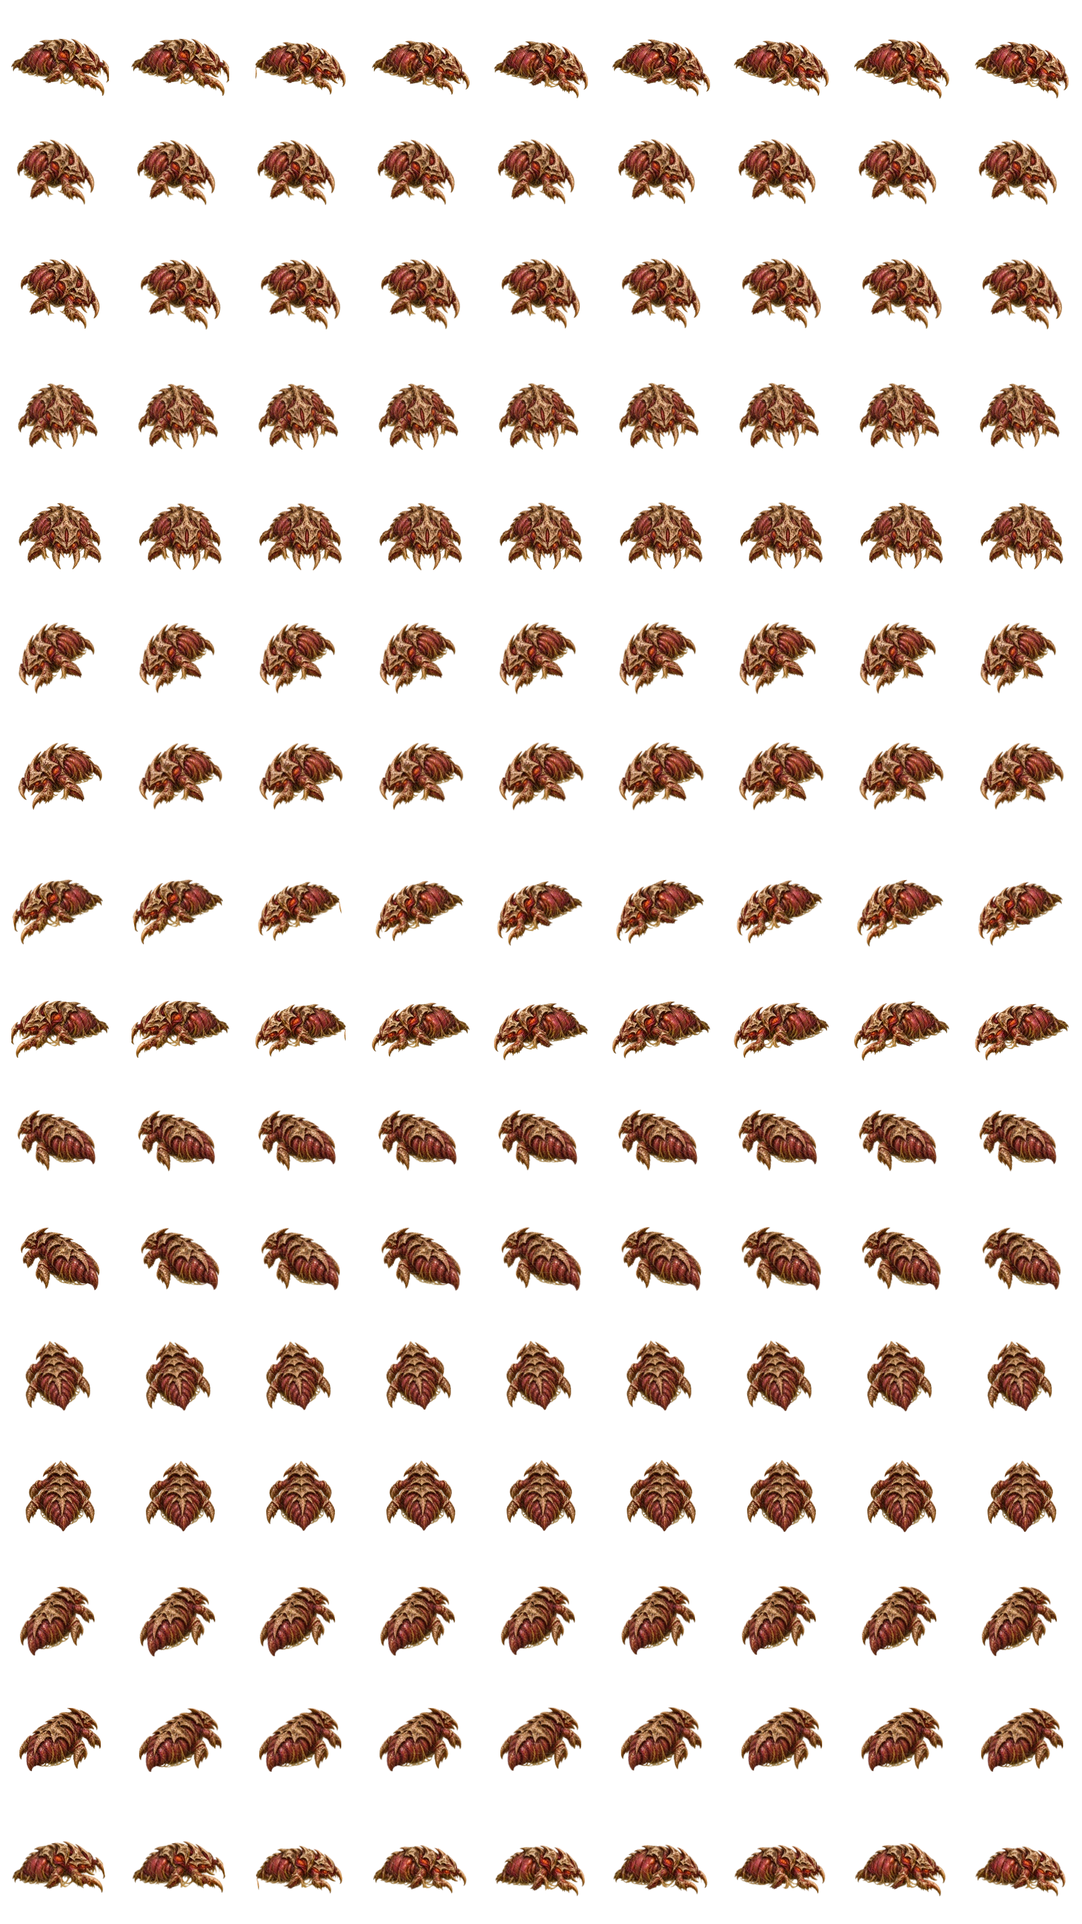
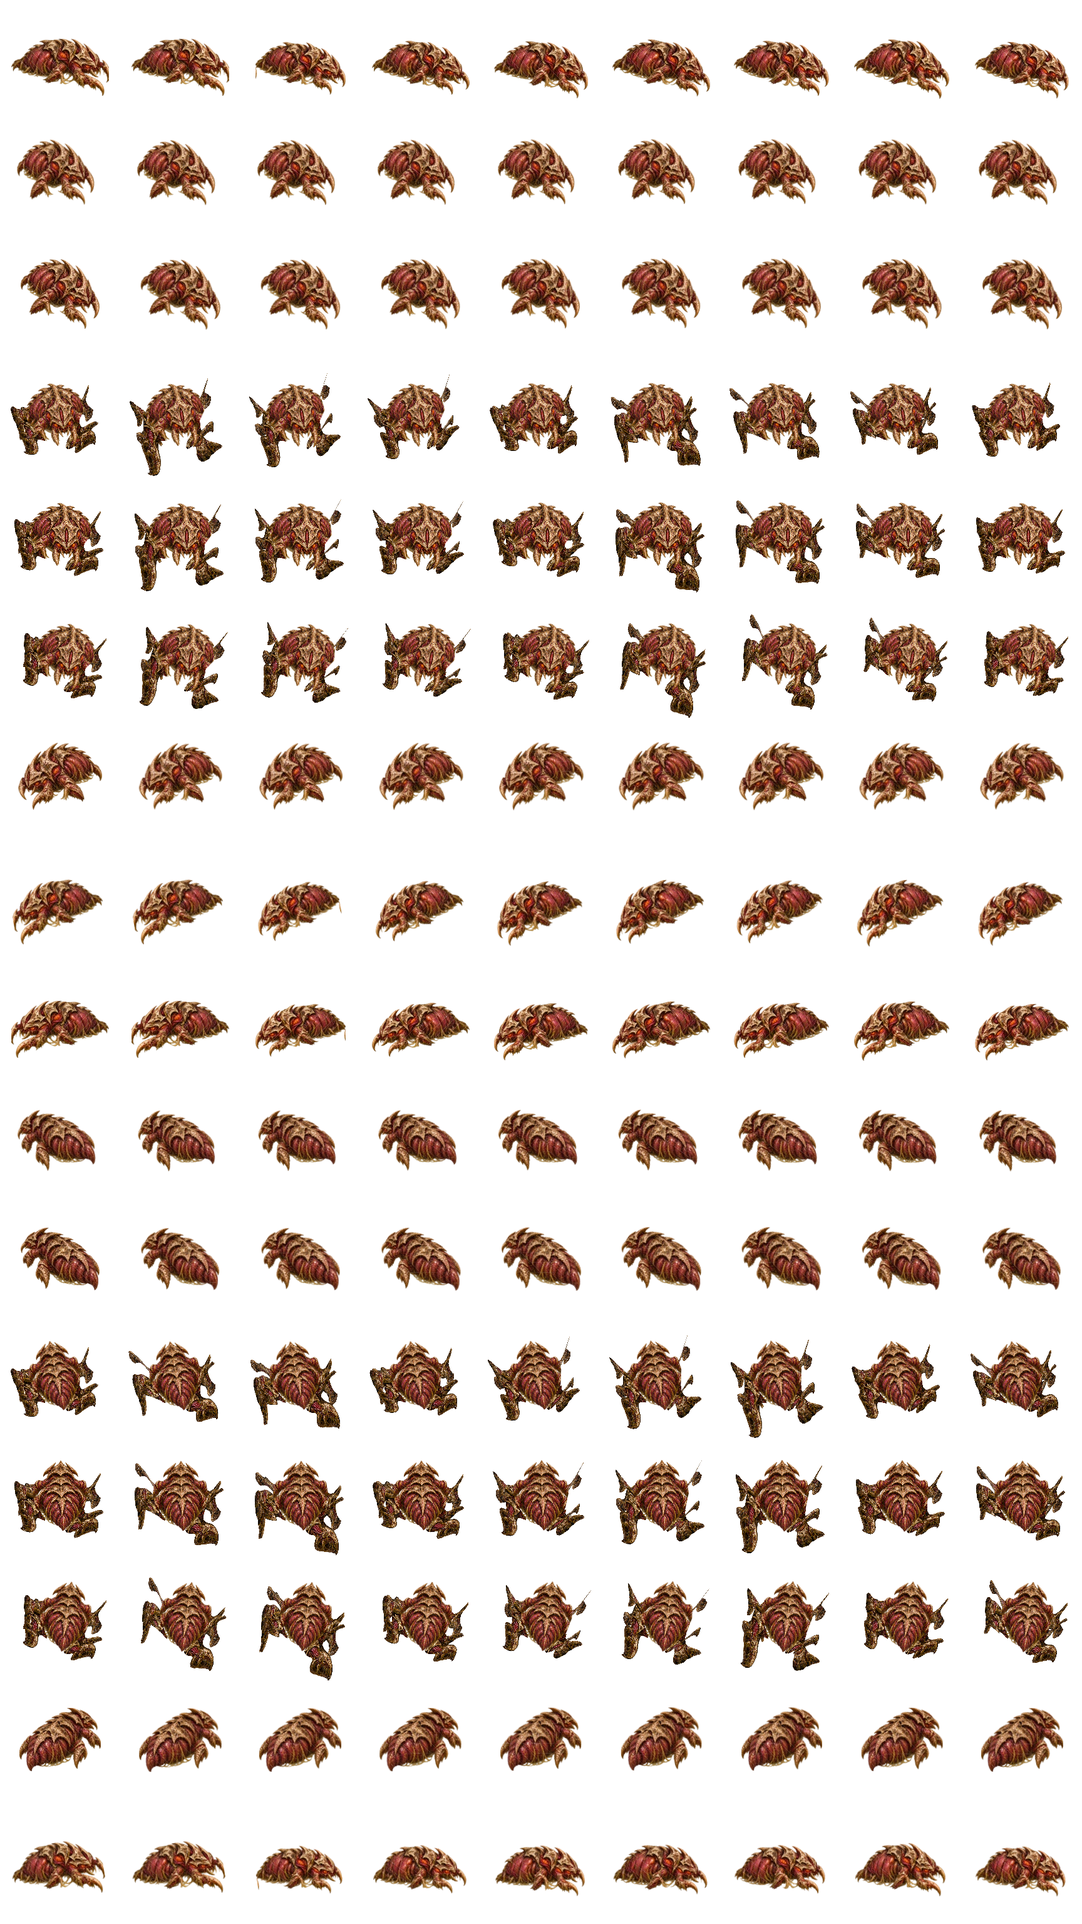
Checkpoint articulated tripod legs in six near-vertical Forager rows

diff --git a/prototype/index.html b/prototype/index.html
@@ -1547,7 +1547,7 @@ function drawLivingSurface(){
   }
   g.globalAlpha=1;
 }
-const FORAGER_MIRE_CONTACTS=[[[[76.164,132.386],[125.082,137.159],[162.964,152.669]],[[76.164,132.386],[125.082,137.159],[162.964,152.669]],[[76.463,132.386],[123.889,141.335],[142.681,150.581]],[[78.998,133.579],[125.231,141.335],[144.918,150.88]],[[82.727,136.562],[127.17,140.141],[153.12,155.95]],[[73.48,133.878],[127.468,143.423],[152.822,153.266]],[[81.683,133.878],[127.319,139.247],[153.866,152.669]],[[82.13,134.474],[127.17,141.633],[156.103,157.143]],[[82.876,133.579],[127.021,143.124],[151.182,156.249]]],[[[76.783,123.018],[116.443,127.211],[134.221,134.358]],[[76.042,123.063],[117.548,127.927],[135.935,135.261]],[[77.004,123.421],[118.005,128.089],[135.674,135.145]],[[77.836,123.542],[117.547,127.737],[134.563,134.567]],[[78.052,123.356],[116.442,127.077],[133.251,133.867]],[[77.524,122.972],[115.337,126.495],[132.508,133.455]],[[76.562,122.615],[114.88,126.333],[132.768,133.572]],[[75.73,122.494],[115.338,126.686],[133.88,134.15]],[[75.515,122.679],[116.444,127.346],[135.191,134.849]]],[[[77.095,119.833],[117.986,130.756],[135.35,140.839]],[[76.308,119.751],[119.016,131.65],[136.984,142.022]],[[77.253,120.267],[119.466,131.888],[136.732,141.862]],[[78.105,120.529],[119.049,131.463],[135.67,141.103]],[[78.365,120.384],[118.01,130.624],[134.421,140.189]],[[77.882,119.915],[116.956,129.862],[133.716,139.656]],[[76.937,119.399],[116.506,129.624],[133.968,139.816]],[[76.085,119.137],[116.923,130.049],[135.03,140.575]],[[75.825,119.282],[117.962,130.888],[136.279,141.489]]],[[[92.907,136.711],[98.029,140.086],[152.49,120.656]],[[92.92,136.786],[98.074,140.347],[152.717,121.95]],[[93.08,137.704],[98.234,141.26],[152.585,121.195]],[[93.139,138.041],[98.273,141.485],[152.397,120.124]],[[93.062,137.598],[98.169,140.89],[152.265,119.364]],[[92.894,136.635],[97.983,139.825],[152.264,119.361]],[[92.733,135.717],[97.824,138.912],[152.396,120.116]],[[92.674,135.381],[97.784,138.687],[152.583,121.188]],[[92.752,135.824],[97.888,139.282],[152.716,121.947]]],[[[91.519,136.078],[96.28,140.279],[157.056,130.476]],[[91.519,136.155],[96.28,140.544],[157.056,131.789]],[[91.519,137.086],[96.28,141.47],[157.056,131.023]],[[91.519,137.427],[96.28,141.698],[157.056,129.936]],[[91.519,136.978],[96.28,141.095],[157.056,129.166]],[[91.519,136.001],[96.28,140.014],[157.056,129.163]],[[91.519,135.07],[96.28,139.088],[157.056,129.929]],[[91.519,134.729],[96.28,138.86],[157.056,131.016]],[[91.519,135.178],[96.28,139.463],[157.056,131.786]]],[[[74.065,134.925],[104.198,124.279],[128.034,121.838]],[[75.029,134.424],[103.875,124.942],[126.986,123.127]],[[74.179,135.149],[103.218,125.494],[127.029,123.066]],[[73.261,135.742],[103.135,125.334],[127.661,122.285]],[[72.814,135.857],[103.675,124.557],[128.512,121.243]],[[73.1,135.426],[104.521,123.616],[129.083,120.55]],[[73.951,134.701],[105.178,123.064],[129.04,120.611]],[[74.869,134.108],[105.261,123.223],[128.408,121.391]],[[75.315,133.993],[104.722,124.001],[127.557,122.433]]],[[[72.054,131.092],[105.662,125.771],[131.149,127.451]],[[73.159,130.764],[105.201,126.368],[129.811,128.54]],[[72.132,131.332],[104.41,126.799],[129.867,128.487]],[[71.06,131.759],[104.352,126.628],[130.675,127.827]],[[70.569,131.795],[105.061,125.955],[131.76,126.947]],[[70.949,131.42],[106.123,125.174],[132.487,126.362]],[[71.976,130.852],[106.914,124.743],[132.431,126.415]],[[73.048,130.425],[106.972,124.914],[131.623,127.075]],[[73.539,130.389],[106.263,125.587],[130.538,127.955]]],[[[114.737,129.163],[70.365,141.73],[38.037,163.106]],[[114.737,129.163],[70.365,141.73],[38.037,163.106]],[[114.461,129.212],[72.186,145.654],[56.417,157.788]],[[112.324,130.795],[70.946,145.87],[54.401,158.442]],[[109.393,134.334],[68.949,145.005],[47.697,164.757]],[[117.474,130.203],[69.239,148.288],[47.51,162.064]],[[109.895,131.521],[68.657,144.148],[46.443,161.643]],[[109.585,132.18],[69.206,146.476],[45.146,166.413]],[[108.741,131.418],[69.6,147.921],[49.539,164.741]]],[[[115.836,132.386],[66.918,137.159],[29.036,152.669]],[[115.836,132.386],[66.918,137.159],[29.036,152.669]],[[115.537,132.386],[68.111,141.335],[49.319,150.581]],[[113.002,133.579],[66.769,141.335],[47.082,150.88]],[[109.273,136.562],[64.83,140.141],[38.88,155.95]],[[118.52,133.878],[64.532,143.423],[39.178,153.266]],[[110.317,133.878],[64.681,139.247],[38.134,152.669]],[[109.87,134.474],[64.83,141.633],[35.897,157.143]],[[109.124,133.579],[64.979,143.124],[40.818,156.249]]],[[[75.892,140.808],[116.28,127.808],[148.26,130.778]],[[77.121,141.539],[115.283,127.693],[146.722,130.406]],[[75.974,141.072],[114.806,127.488],[147.585,130.732]],[[74.779,140.45],[115.192,127.47],[148.843,131.084]],[[74.237,140.038],[116.216,127.651],[149.76,131.257]],[[74.664,140.077],[117.278,127.923],[149.798,131.149]],[[75.811,140.544],[117.755,128.129],[148.934,130.824]],[[77.006,141.166],[117.368,128.146],[147.676,130.472]],[[77.548,141.578],[116.344,127.966],[146.759,130.299]]],[[[72.894,137.198],[117.706,131.316],[150.754,139.718]],[[74.05,138.128],[116.679,131.032],[149.207,139.089]],[[72.931,137.472],[116.216,130.748],[150.054,139.557]],[[71.79,136.655],[116.625,130.797],[151.311,140.119]],[[71.296,136.156],[117.668,131.15],[152.242,140.447]],[[71.738,136.268],[118.733,131.6],[152.301,140.347]],[[72.857,136.924],[119.196,131.884],[151.454,139.879]],[[73.998,137.741],[118.787,131.835],[150.197,139.317]],[[74.492,138.24],[117.744,131.482],[149.266,138.989]]],[[[92.351,132.768],[101.916,140.206],[140.224,119.888]],[[92.434,133.244],[101.923,140.249],[140.084,119.082]],[[92.275,132.334],[101.768,139.363],[140.154,119.487]],[[92.161,131.679],[101.7,138.971],[140.266,120.128]],[[92.158,131.662],[101.758,139.303],[140.354,120.628]],[[92.268,132.293],[101.908,140.163],[140.365,120.695]],[[92.427,133.203],[102.063,141.049],[140.295,120.289]],[[92.542,133.858],[102.131,141.441],[140.183,119.649]],[[92.545,133.875],[102.074,141.11],[140.095,119.149]]],[[[91.659,132.101],[100.341,141.063],[144.312,127.619]],[[91.659,132.583],[100.341,141.106],[144.312,126.801]],[[91.659,131.66],[100.341,140.208],[144.312,127.212]],[[91.659,130.996],[100.341,139.81],[144.312,127.862]],[[91.659,130.978],[100.341,140.146],[144.312,128.369]],[[91.659,131.619],[100.341,141.02],[144.312,128.437]],[[91.659,132.542],[100.341,141.918],[144.312,128.026]],[[91.659,133.206],[100.341,142.316],[144.312,127.376]],[[91.659,133.224],[100.341,141.98],[144.312,126.869]]],[[[74.795,136.05],[121.949,131.259],[125.532,121.25]],[[73.936,137.141],[123.048,130.611],[126.641,120.653]],[[74.801,136.361],[123.274,130.393],[126.669,120.604]],[[75.662,135.399],[122.723,130.683],[126.031,120.934]],[[76.015,134.819],[121.719,131.31],[125.101,121.449]],[[75.653,134.96],[120.849,131.908],[124.423,121.847]],[[74.788,135.74],[120.624,132.125],[124.395,121.896]],[[73.927,136.702],[121.175,131.835],[125.032,121.566]],[[73.574,137.282],[122.179,131.208],[125.963,121.051]]],[[[72.614,132.325],[123.027,135.685],[128.628,126.443]],[[71.512,133.252],[124.301,135.235],[129.903,126.045]],[[72.564,132.632],[124.578,135.059],[129.941,126.002]],[[73.645,131.832],[123.946,135.25],[129.211,126.217]],[[74.122,131.321],[122.776,135.696],[128.139,126.565]],[[73.716,131.398],[121.753,136.135],[127.353,126.841]],[[72.664,132.018],[121.476,136.311],[127.315,126.884]],[[71.583,132.818],[122.108,136.12],[128.045,126.669]],[[71.106,133.329],[123.278,135.674],[129.117,126.321]]],[[[78.085,135.54],[124.101,132.382],[161.77,141.58]],[[78.085,135.54],[124.101,132.382],[161.77,141.58]],[[78.361,135.492],[123.718,136.689],[142.672,142.782]],[[80.909,136.26],[124.958,136.474],[144.79,142.717]],[[84.867,138.601],[126.544,134.985],[153.241,146.396]],[[75.862,137.442],[127.384,138.172],[152.503,143.798]],[[83.441,136.123],[126.527,134.08],[153.365,143.042]],[[83.956,136.639],[126.801,136.456],[156.202,147.092]],[[84.491,135.637],[126.92,137.949],[151.502,147.002]]]];
+const FORAGER_MIRE_CONTACTS=[[[[76.164,132.386],[125.082,137.159],[162.964,152.669]],[[76.164,132.386],[125.082,137.159],[162.964,152.669]],[[76.463,132.386],[123.889,141.335],[142.681,150.581]],[[78.998,133.579],[125.231,141.335],[144.918,150.88]],[[82.727,136.562],[127.17,140.141],[153.12,155.95]],[[73.48,133.878],[127.468,143.423],[152.822,153.266]],[[81.683,133.878],[127.319,139.247],[153.866,152.669]],[[82.13,134.474],[127.17,141.633],[156.103,157.143]],[[82.876,133.579],[127.021,143.124],[151.182,156.249]]],[[[76.783,123.018],[116.443,127.211],[134.221,134.358]],[[76.042,123.063],[117.548,127.927],[135.935,135.261]],[[77.004,123.421],[118.005,128.089],[135.674,135.145]],[[77.836,123.542],[117.547,127.737],[134.563,134.567]],[[78.052,123.356],[116.442,127.077],[133.251,133.867]],[[77.524,122.972],[115.337,126.495],[132.508,133.455]],[[76.562,122.615],[114.88,126.333],[132.768,133.572]],[[75.73,122.494],[115.338,126.686],[133.88,134.15]],[[75.515,122.679],[116.444,127.346],[135.191,134.849]]],[[[77.095,119.833],[117.986,130.756],[135.35,140.839]],[[76.308,119.751],[119.016,131.65],[136.984,142.022]],[[77.253,120.267],[119.466,131.888],[136.732,141.862]],[[78.105,120.529],[119.049,131.463],[135.67,141.103]],[[78.365,120.384],[118.01,130.624],[134.421,140.189]],[[77.882,119.915],[116.956,129.862],[133.716,139.656]],[[76.937,119.399],[116.506,129.624],[133.968,139.816]],[[76.085,119.137],[116.923,130.049],[135.03,140.575]],[[75.825,119.282],[117.962,130.888],[136.279,141.489]]],[[[32.99,96.277],[31.924,122.867],[43.793,147.207],[143.856,76.989],[153.876,101.651],[150.963,128.563]],[[39.092,131.201],[28.22,101.667],[49.719,181.127],[140.285,56.552],[160.296,138.396],[147.461,108.524]],[[36.638,117.155],[25.758,87.573],[47.271,167.113],[137.779,42.21],[157.653,123.264],[144.881,93.756]],[[34.203,103.22],[26.533,92.011],[44.937,153.759],[138.519,46.448],[155.018,108.185],[145.552,97.595]],[[31.72,89.005],[32.498,126.154],[42.594,140.345],[144.313,79.605],[152.46,93.543],[151.32,130.609]],[[29.185,74.499],[38.273,159.201],[40.158,126.406],[149.835,111.214],[149.989,79.4],[156.868,162.361]],[[26.668,60.092],[35.81,145.108],[37.643,112.012],[147.468,97.663],[147.575,65.584],[154.57,149.207]],[[27.584,65.336],[33.262,130.525],[38.461,116.693],[145.122,84.239],[148.525,71.025],[152.298,136.203]],[[33.608,99.811],[30.715,115.946],[44.337,150.321],[142.736,70.581],[154.674,106.217],[149.943,122.728]]],[[[36,86],[30,112],[38,138],[156,86],[162,112],[154,138]],[[36,121.434],[30,90.491],[38,172.415],[156,65.264],[162,149.281],[154,117.668]],[[36,107.183],[30,76.191],[38,158.196],[156,50.713],[162,133.929],[154,102.685]],[[36,93.045],[30,80.694],[38,144.648],[156,55.013],[162,118.63],[154,106.58]],[[36,78.622],[30,115.335],[38,131.038],[156,88.654],[162,103.773],[154,140.076]],[[36,63.904],[30,148.864],[38,116.895],[156,120.724],[162,89.425],[154,172.291]],[[36,49.287],[30,134.566],[38,102.292],[156,106.975],[162,75.407],[154,158.946]],[[36,54.608],[30,119.77],[38,107.04],[156,93.355],[162,80.927],[154,145.752]],[[36,89.586],[30,104.978],[38,141.16],[156,79.498],[162,116.633],[154,132.08]]],[[[48.144,76.989],[38.124,101.651],[41.037,128.563],[159.01,96.277],[160.076,122.867],[148.207,147.207]],[[42.042,111.914],[41.828,80.451],[35.111,162.483],[162.581,75.839],[153.656,159.612],[151.709,127.168]],[[44.496,97.868],[44.29,66.357],[37.559,148.468],[165.087,61.497],[156.3,144.48],[154.289,112.4]],[[46.931,83.933],[43.515,70.795],[39.893,135.115],[164.346,65.735],[158.934,129.401],[153.618,116.24]],[[49.415,69.718],[37.549,104.938],[42.236,121.701],[158.553,98.893],[161.492,114.759],[147.85,149.253]],[[51.949,55.212],[31.775,137.985],[44.672,107.762],[153.03,130.501],[163.963,100.616],[142.302,181.005]],[[54.467,40.805],[34.238,123.892],[47.187,93.368],[155.398,116.95],[166.377,86.8],[144.6,167.851]],[[53.55,46.049],[36.786,109.309],[46.369,98.048],[157.743,103.526],[165.427,92.241],[146.872,154.848]],[[47.527,80.524],[39.333,94.73],[40.493,131.677],[160.13,89.869],[159.278,127.433],[149.227,141.372]]],[[[72.054,131.092],[105.662,125.771],[131.149,127.451]],[[73.159,130.764],[105.201,126.368],[129.811,128.54]],[[72.132,131.332],[104.41,126.799],[129.867,128.487]],[[71.06,131.759],[104.352,126.628],[130.675,127.827]],[[70.569,131.795],[105.061,125.955],[131.76,126.947]],[[70.949,131.42],[106.123,125.174],[132.487,126.362]],[[71.976,130.852],[106.914,124.743],[132.431,126.415]],[[73.048,130.425],[106.972,124.914],[131.623,127.075]],[[73.539,130.389],[106.263,125.587],[130.538,127.955]]],[[[114.737,129.163],[70.365,141.73],[38.037,163.106]],[[114.737,129.163],[70.365,141.73],[38.037,163.106]],[[114.461,129.212],[72.186,145.654],[56.417,157.788]],[[112.324,130.795],[70.946,145.87],[54.401,158.442]],[[109.393,134.334],[68.949,145.005],[47.697,164.757]],[[117.474,130.203],[69.239,148.288],[47.51,162.064]],[[109.895,131.521],[68.657,144.148],[46.443,161.643]],[[109.585,132.18],[69.206,146.476],[45.146,166.413]],[[108.741,131.418],[69.6,147.921],[49.539,164.741]]],[[[115.836,132.386],[66.918,137.159],[29.036,152.669]],[[115.836,132.386],[66.918,137.159],[29.036,152.669]],[[115.537,132.386],[68.111,141.335],[49.319,150.581]],[[113.002,133.579],[66.769,141.335],[47.082,150.88]],[[109.273,136.562],[64.83,140.141],[38.88,155.95]],[[118.52,133.878],[64.532,143.423],[39.178,153.266]],[[110.317,133.878],[64.681,139.247],[38.134,152.669]],[[109.87,134.474],[64.83,141.633],[35.897,157.143]],[[109.124,133.579],[64.979,143.124],[40.818,156.249]]],[[[75.892,140.808],[116.28,127.808],[148.26,130.778]],[[77.121,141.539],[115.283,127.693],[146.722,130.406]],[[75.974,141.072],[114.806,127.488],[147.585,130.732]],[[74.779,140.45],[115.192,127.47],[148.843,131.084]],[[74.237,140.038],[116.216,127.651],[149.76,131.257]],[[74.664,140.077],[117.278,127.923],[149.798,131.149]],[[75.811,140.544],[117.755,128.129],[148.934,130.824]],[[77.006,141.166],[117.368,128.146],[147.676,130.472]],[[77.548,141.578],[116.344,127.966],[146.759,130.299]]],[[[72.894,137.198],[117.706,131.316],[150.754,139.718]],[[74.05,138.128],[116.679,131.032],[149.207,139.089]],[[72.931,137.472],[116.216,130.748],[150.054,139.557]],[[71.79,136.655],[116.625,130.797],[151.311,140.119]],[[71.296,136.156],[117.668,131.15],[152.242,140.447]],[[71.738,136.268],[118.733,131.6],[152.301,140.347]],[[72.857,136.924],[119.196,131.884],[151.454,139.879]],[[73.998,137.741],[118.787,131.835],[150.197,139.317]],[[74.492,138.24],[117.744,131.482],[149.266,138.989]]],[[[32.99,96.277],[31.924,122.867],[43.793,147.207],[143.856,76.989],[153.876,101.651],[150.963,128.563]],[[26.922,61.544],[35.851,145.344],[37.793,112.867],[147.524,97.983],[147.734,66.494],[154.456,148.559]],[[29.416,75.818],[38.407,159.971],[40.296,127.193],[150.066,112.533],[150.238,80.827],[157.071,163.522]],[[31.821,89.584],[32.657,127.063],[42.661,140.731],[144.535,80.88],[152.756,95.238],[151.679,132.66]],[[34.16,102.97],[26.501,91.829],[44.936,153.753],[138.436,45.971],[155.262,109.582],[145.693,98.4]],[[36.508,116.41],[25.57,86.499],[47.237,166.921],[137.525,40.757],[157.704,123.557],[144.802,93.3]],[[38.955,130.414],[28.016,100.496],[49.682,180.917],[140.036,55.126],[160.054,137.007],[147.235,107.227]],[[33.508,99.24],[30.565,115.087],[44.274,149.963],[142.545,69.489],[154.341,104.308],[149.614,120.846]],[[27.682,65.899],[33.203,130.184],[38.504,116.939],[145.031,83.719],[148.475,70.737],[151.991,134.448]]],[[[36,86],[30,112],[38,138],[156,86],[162,112],[154,138]],[[36,50.761],[30,134.805],[38,103.158],[156,107.3],[162,76.33],[154,158.288]],[[36,65.243],[30,149.646],[38,117.694],[156,122.062],[162,90.872],[154,173.469]],[[36,79.21],[30,116.258],[38,131.43],[156,89.947],[162,105.494],[154,142.157]],[[36,92.791],[30,80.509],[38,144.641],[156,54.529],[162,120.047],[154,107.397]],[[36,106.427],[30,75.101],[38,158.001],[156,49.239],[162,134.226],[154,102.223]],[[36,120.636],[30,89.303],[38,172.202],[156,63.817],[162,147.872],[154,116.353]],[[36,89.007],[30,104.106],[38,140.797],[156,78.39],[162,114.696],[154,130.17]],[[36,55.179],[30,119.424],[38,107.29],[156,92.828],[162,80.635],[154,143.971]]],[[[48.144,76.989],[38.124,101.651],[41.037,128.563],[159.01,96.277],[160.076,122.867],[148.207,147.207]],[[54.213,42.257],[34.197,124.128],[47.037,94.222],[155.342,117.27],[166.218,87.71],[144.714,167.203]],[[51.719,56.531],[31.641,138.755],[44.534,108.549],[152.8,131.82],[163.714,102.043],[142.099,182.166]],[[49.314,70.297],[37.39,105.847],[42.169,122.087],[158.33,100.167],[161.196,116.454],[147.491,151.305]],[[46.975,83.683],[43.547,70.613],[39.894,135.108],[164.429,65.258],[158.69,130.798],[153.477,117.045]],[[44.627,97.123],[44.478,65.283],[37.593,148.276],[165.34,60.045],[156.248,144.773],[154.368,111.945]],[[42.18,111.127],[42.032,79.28],[35.148,162.272],[162.83,74.413],[153.898,158.223],[151.935,125.872]],[[47.627,79.953],[39.483,93.871],[40.556,131.319],[160.32,88.776],[159.611,125.524],[149.556,139.49]],[[53.452,46.611],[36.845,108.969],[46.326,98.295],[157.834,103.006],[165.477,91.953],[147.179,153.092]]],[[[72.614,132.325],[123.027,135.685],[128.628,126.443]],[[71.512,133.252],[124.301,135.235],[129.903,126.045]],[[72.564,132.632],[124.578,135.059],[129.941,126.002]],[[73.645,131.832],[123.946,135.25],[129.211,126.217]],[[74.122,131.321],[122.776,135.696],[128.139,126.565]],[[73.716,131.398],[121.753,136.135],[127.353,126.841]],[[72.664,132.018],[121.476,136.311],[127.315,126.884]],[[71.583,132.818],[122.108,136.12],[128.045,126.669]],[[71.106,133.329],[123.278,135.674],[129.117,126.321]]],[[[78.085,135.54],[124.101,132.382],[161.77,141.58]],[[78.085,135.54],[124.101,132.382],[161.77,141.58]],[[78.361,135.492],[123.718,136.689],[142.672,142.782]],[[80.909,136.26],[124.958,136.474],[144.79,142.717]],[[84.867,138.601],[126.544,134.985],[153.241,146.396]],[[75.862,137.442],[127.384,138.172],[152.503,143.798]],[[83.441,136.123],[126.527,134.08],[153.365,143.042]],[[83.956,136.639],[126.801,136.456],[156.202,147.092]],[[84.491,135.637],[126.92,137.949],[151.502,147.002]]]];
 function foragerMireFeet(pose){
   const row=FORAGER_MIRE_CONTACTS[pose.direction],scale=FORAGER_MIRE.scale;
   return row[pose.frame].map(([x,y],i)=>{

diff --git a/tools/encode-forager-patch.py b/tools/encode-forager-patch.py
@@ -1,0 +1,27 @@
+"""Losslessly replace selected atlas rows, including exact transparent RGB storage.
+
+Pillow is an offline bake dependency; the game and Node test runner do not need it.
+"""
+import json
+import sys
+from pathlib import Path
+from PIL import Image
+
+original, replacement, destination, selected = sys.argv[1:]
+rows = json.loads(selected)
+before = Image.open(original).convert("RGBA")
+patch = Image.open(replacement).convert("RGBA")
+assert before.size == patch.size == (1728, 3072)
+out = before.copy()
+for row in rows:
+    box = (0, row * 192, 1728, (row + 1) * 192)
+    out.paste(patch.crop(box), box)
+temporary = Path(destination).with_suffix(".pending.webp")
+out.save(temporary, "WEBP", lossless=True, exact=True, method=6)
+check = Image.open(temporary).convert("RGBA")
+for row in range(16):
+    box = (0, row * 192, 1728, (row + 1) * 192)
+    expected = out if row in rows else before
+    assert check.crop(box).tobytes() == expected.crop(box).tobytes(), row
+temporary.replace(destination)
+print("Exact RGBA preservation verified for all untouched rows.")

diff --git a/reports/ACTIVE-WORK-CHECKPOINT.md b/reports/ACTIVE-WORK-CHECKPOINT.md
@@ -9,3 +9,13 @@ Baseline full atlas and contacts are in /private/tmp/forager-vertical-before.web
 Red regression tests/forager-vertical-gait.cjs fails on the existing atlas: row3 visible premultiplied RGB MAD1.952 versus side row7.930. The user's numeric range uses a different/unspecified difference metric; ours compares visible RGB over identical192px cells and cannot be boosted by colors stored under transparent pixels. Acceptance is still relative to the unchanged side rows.
 
 Next: articulate separate legs in tools/bake-forager-crawl-v2.cjs; preserve unaffected rows by lossless exact WebP patching (Pillow encoder required, bundled Python available). Keep body anchor, scale, palette and identity. Then run atlas, gait/preservation and contacts tests; inspect after strips and in-game full cycles and grayscale readability. Record any remaining discrepancy. No merge without second visual review per AGENTS.md.
+
+## Articulated geometry checkpoint
+
+Candidate implemented in tools/bake-forager-crawl-v2.cjs and forager-vertical-legs.cjs. Approved anatomy master supplies three clipped limbs, mirrored into alternating tripods under the existing front/back torso. Immediate neighbouring headings use the corresponding front/back master with ±22.5-degree projection. Target rows3,4,5,11,12,13 only. Six actual foot landmarks replace the old three in those contact rows; runtime source changes only its autogenerated contact constant.
+
+Exact lossless WebP patching is performed by tools/encode-forager-patch.py (Python+Pillow; FORAGER_PYTHON selects interpreter). Encoder verifies raw RGBA preservation including RGB beneath alpha0 for every untouched row. Atlas grows because it is lossless. Native decoded hash checks also pass for the ten untouched rows.
+
+Nine-cell adjacent visible-RGB MAD: side maximum7.930; target rows8.114,9.087,8.115,8.345,9.242,8.315. These include rest0 and poses1–8. A separate exploratory walking-loop-only score was8.012–8.945 versus9.503 side; that is not the user's specified nine-cell metric and must not be misreported as the same number. Existing runtime sway/roll and40px cycle remain untouched.
+
+Native atlas test and focused atlas-preservation, gait, contacts and organic-world tests pass. After game frame/cycle strips captured and opened, complete npm test still running. Pending: final paired strips, readable grayscale full-frame check, reproducibility bake, documentation, final commit/PR. Do not mark final visual acceptance as established by tests alone.
